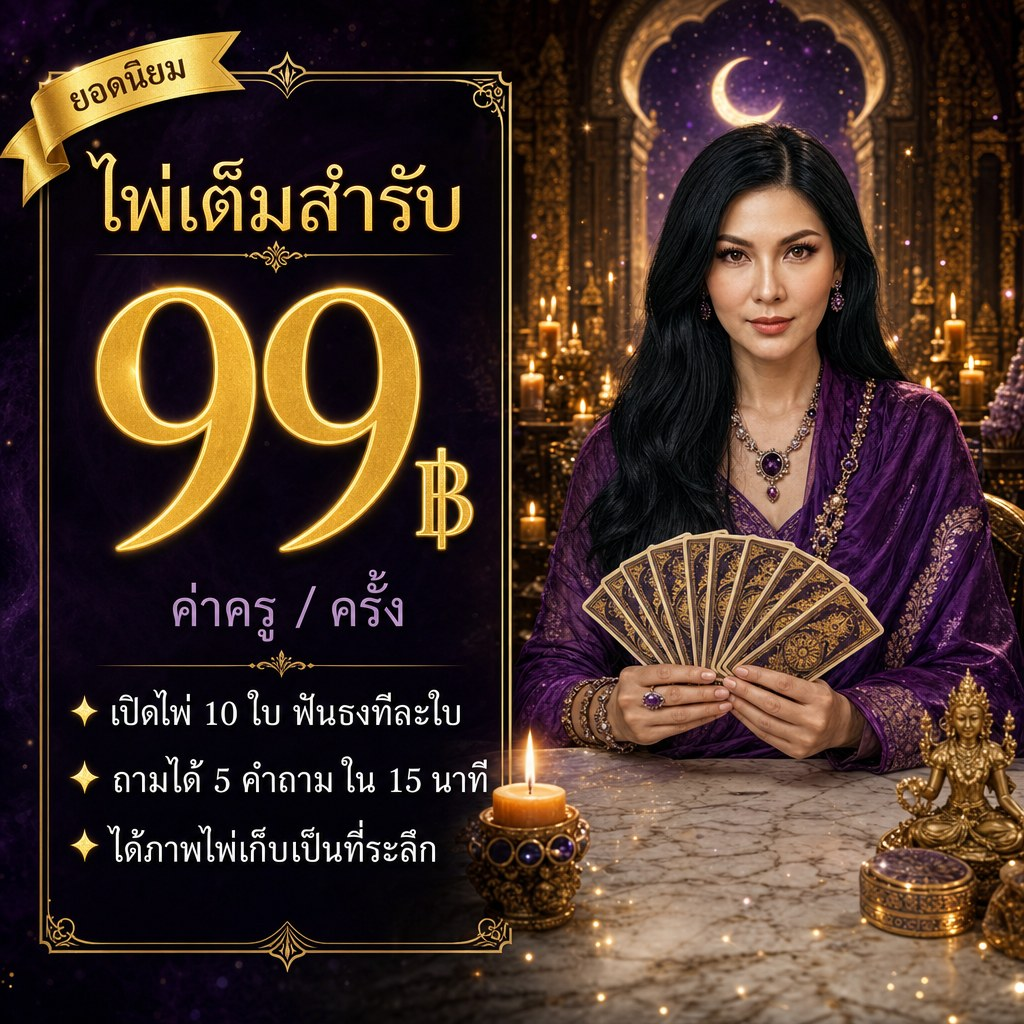
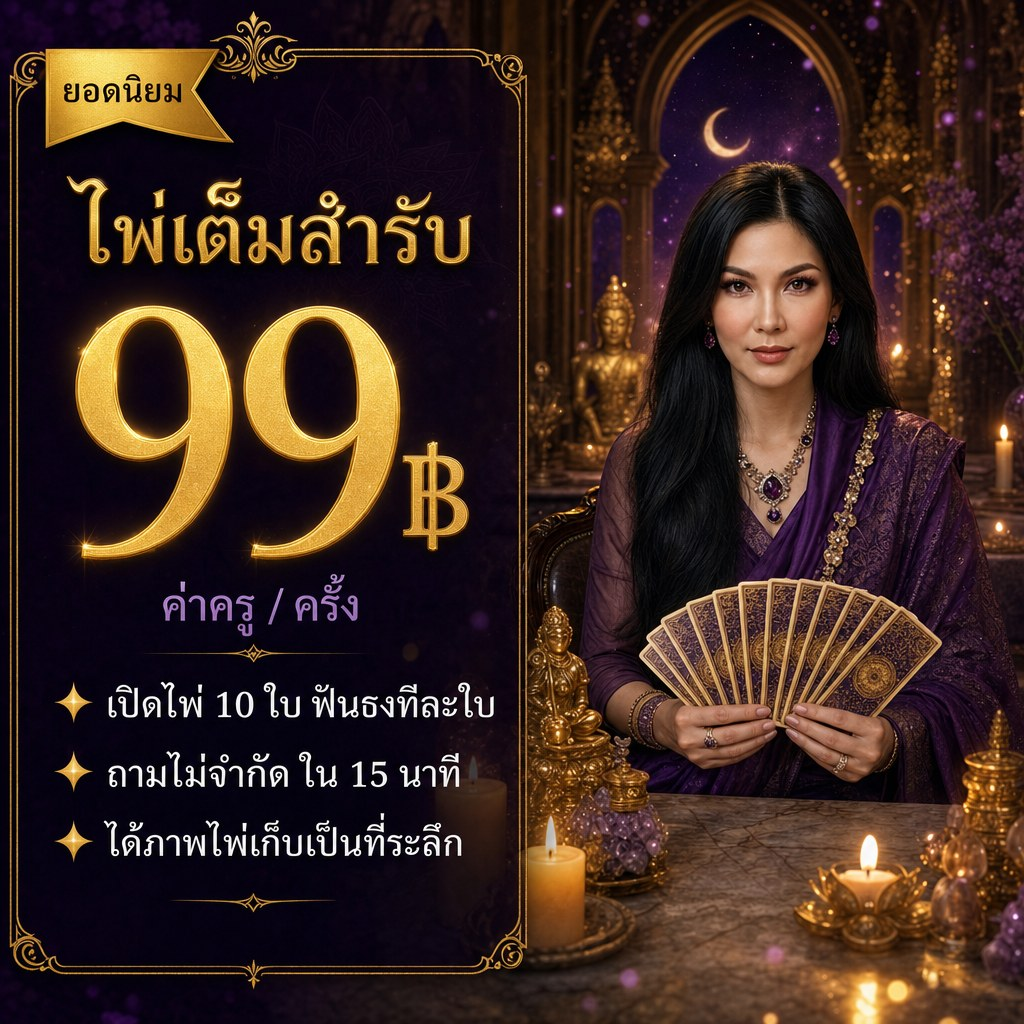
fix(fortune): การ์ดแพคเกจไม่ขึ้นเลย — รูป 99 เขียน "5 คำถาม" แต่ prod ตั้งไม่จำกัด
ลูกค้า Sivaporn Srisakdinun (reading 11467, 12:07 น.) เข้า tier_choice หลัง
deploy แล้วแต่ยังได้เมนูข้อความเดิม ไม่ได้การ์ด

ต้นตอ: prod ตั้ง celtic_cross_max_questions = 0 ⇒ presentTierChoice ปั้น
q_limit_text = "ไม่จำกัด" แต่รูปการ์ด 99 พิมพ์ว่า "ถามได้ 5 คำถาม ใน 15 นาที"
⇒ guard BAKED_CELTIC_Q_LIMIT ไม่ตรง ⇒ packages() คืน null ⇒ ตกเมนูข้อความ
ทั้งชุด (การ์ด 39 กับคุณไสยหายไปด้วย เพราะคืน null ทั้งก้อน)

guard ทำงานถูกแล้ว — ที่ผิดคือค่าที่พิมพ์ลงรูป ไม่ใช่ตัว guard

- สร้างรูป pkg-celtic99.jpg ใหม่ เป็น "ถามไม่จำกัด ใน 15 นาที" (ตรงกับ prod
  และเป็นจุดขายที่แรงกว่า "5 คำถาม" ด้วย)
- BAKED_CELTIC_Q_LIMIT: "5 คำถาม" → "ไม่จำกัด" + คอมเมนต์เตือนว่าถ้าตั้งเป็น
  ตัวเลขเมื่อไหร่ต้องสร้างรูปใหม่
- คำบรรยายใต้การ์ดเลี่ยง "ถามได้ ไม่จำกัด" ที่อ่านสะดุด → "ถามไม่จำกัด"
  ให้ตรงกับถ้อยคำบนรูปเป๊ะ

ค่าอื่นตรวจแล้วตรงหมด: ราคา 39/99 · qa_window 15 · deep_window 7

diff --git a/app/Services/Fortune/FortunePackageCardBuilder.php b/app/Services/Fortune/FortunePackageCardBuilder.php
@@ -40,8 +40,14 @@ class FortunePackageCardBuilder
     /** "คุยถามต่อได้ 7 นาที" ที่พิมพ์อยู่บนรูป 39 */
     private const BAKED_DEEP_WINDOW = 7;
 
-    /** "ถามได้ 5 คำถาม ใน 15 นาที" ที่พิมพ์อยู่บนรูป 99 */
-    private const BAKED_CELTIC_Q_LIMIT = '5 คำถาม';
+    /**
+     * "ถามไม่จำกัด ใน 15 นาที" ที่พิมพ์อยู่บนรูป 99
+     *
+     * ⚠ ต้องตรงกับที่ presentTierChoice ปั้น: celtic_cross_max_questions = 0 → "ไม่จำกัด"
+     *    ถ้าตั้งเป็นตัวเลข (เช่น 5) จะได้ "5 คำถาม" ⇒ ไม่ตรงรูป ⇒ การ์ดหาย ต้องสร้างรูปใหม่
+     *    (prod 2026-08-23 = 0 = ไม่จำกัด — เคยพลาดพิมพ์ "5 คำถาม" ลงรูปแล้วการ์ดไม่ขึ้นทั้งชุด)
+     */
+    private const BAKED_CELTIC_Q_LIMIT = 'ไม่จำกัด';
 
     private const BAKED_CELTIC_WINDOW = 15;
 
@@ -316,6 +322,12 @@ class FortunePackageCardBuilder
             return null;
         }
 
+        // "ถามได้ ไม่จำกัด" อ่านแล้วสะดุด — พอเป็นไม่จำกัดต้องตัด "ได้" ออก
+        // (ให้ตรงกับถ้อยคำที่พิมพ์อยู่บนรูปเป๊ะ ๆ ด้วย)
+        $askLine = $qLimitText === 'ไม่จำกัด'
+            ? "ถามไม่จำกัด ใน {$qaWindow} นาที"
+            : "ถามได้ {$qLimitText} ใน {$qaWindow} นาที";
+
         $packages = [];
 
         // 🔹 ดูพื้นดวง 39
@@ -338,9 +350,9 @@ class FortunePackageCardBuilder
             $packages[] = [
                 'image' => self::IMAGE_CELTIC,
                 'fb_title' => "👑 ไพ่เต็มสำรับ Celtic Cross — ค่าครู {$celticPrice} บาท",
-                'fb_subtitle' => "เปิดไพ่โบราณ 10 ใบ ฟันธงทีละใบ · ถามได้ {$qLimitText} ใน {$qaWindow} นาที",
+                'fb_subtitle' => "เปิดไพ่โบราณ 10 ใบ ฟันธงทีละใบ · {$askLine}",
                 'line_title' => "👑 ไพ่เต็มสำรับ Celtic Cross · ฿{$celticPrice}",
-                'line_subtitle' => "เปิดไพ่โบราณ 10 ใบ ฟันธงทีละใบ\nถามได้ {$qLimitText} ใน {$qaWindow} นาที ตอบสดไม่มีรอ",
+                'line_subtitle' => "เปิดไพ่โบราณ 10 ใบ ฟันธงทีละใบ\n{$askLine} ตอบสดไม่มีรอ",
                 'button_label' => $celticOnlyIntro
                     ? "✨ เริ่มเลย {$celticPrice} บาท"
                     : "ดู vip ส่วนตัว {$celticPrice}บาท",
